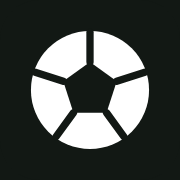
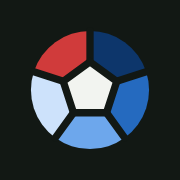
Novo ícone: bola com os gomos nas cores da tabela
Claude-Session: https://claude.ai/code/session_01JAEvz8dyJ8ZTXmCSp9M3N2

Changed region(s): [[0.1667, 0.1667, 0.8333, 0.8333]]

diff --git a/index.html b/index.html
@@ -296,7 +296,7 @@ footer .credit { font-size: 14px; font-weight: 600; color: var(--ink-2); }
 /* brand: the 20-position strip (G4 blues to Z4 reds) is the Simulafut signature */
 .brandbar { display: grid; gap: 12px; margin-bottom: -16px; }
 .brand { display: flex; align-items: center; gap: 10px; color: var(--ink); }
-.bmark { width: 20px; height: 20px; flex: none; }
+.bmark { width: 22px; height: 22px; flex: none; }
 .wordmark { font-family: var(--font-display); font-weight: 800; font-size: 17px; letter-spacing: .06em; text-transform: uppercase; line-height: 1; }
 .bstrip { display: grid; grid-template-columns: repeat(20, minmax(0, 1fr)); gap: 3px; }
 .bstrip i { display: block; height: 5px; border-radius: 2px; }
@@ -457,7 +457,7 @@ footer .credit { font-size: 14px; font-weight: 600; color: var(--ink-2); }
 <body>
 <main class="page" id="page">
   <div class="brandbar">
-    <div class="brand"><svg class="bmark" viewBox="0 0 64 64" aria-hidden="true"><rect width="64" height="64" rx="14" fill="currentColor"/><circle cx="32" cy="32" r="21" fill="var(--bg)"/><polygon points="32,22 41.51,28.91 37.88,40.09 26.12,40.09 22.49,28.91" fill="currentColor"/><g stroke="currentColor" stroke-width="2.6" stroke-linecap="round"><line x1="32" y1="22" x2="32" y2="11.5"/><line x1="41.51" y1="28.91" x2="51.5" y2="25.66"/><line x1="37.88" y1="40.09" x2="44.05" y2="48.58"/><line x1="26.12" y1="40.09" x2="19.95" y2="48.58"/><line x1="22.49" y1="28.91" x2="12.5" y2="25.66"/></g></svg><span class="wordmark">Simulafut</span></div>
+    <div class="brand"><svg class="bmark" viewBox="10 10 44 44" aria-hidden="true"><path d="M32.00,22.00 L32.00,11.00 A21,21 0 0 1 51.97,25.51 L41.51,28.91 Z" fill="#0d366b"/><path d="M41.51,28.91 L51.97,25.51 A21,21 0 0 1 44.34,48.99 L37.88,40.09 Z" fill="#256abf"/><path d="M37.88,40.09 L44.34,48.99 A21,21 0 0 1 19.66,48.99 L26.12,40.09 Z" fill="#6da7ec"/><path d="M26.12,40.09 L19.66,48.99 A21,21 0 0 1 12.03,25.51 L22.49,28.91 Z" fill="#cde2fb"/><path d="M22.49,28.91 L12.03,25.51 A21,21 0 0 1 32.00,11.00 L32.00,22.00 Z" fill="#d03b3b"/><path d="M32.00,22.00 L41.51,28.91 L37.88,40.09 L26.12,40.09 L22.49,28.91 Z" fill="var(--ink)"/><g stroke="var(--bg)" stroke-width="2.6" stroke-linecap="round" fill="none"><line x1="32.00" y1="22.00" x2="32.00" y2="11.00"/><line x1="41.51" y1="28.91" x2="51.97" y2="25.51"/><line x1="37.88" y1="40.09" x2="44.34" y2="48.99"/><line x1="26.12" y1="40.09" x2="19.66" y2="48.99"/><line x1="22.49" y1="28.91" x2="12.03" y2="25.51"/><path d="M32.00,22.00 L41.51,28.91 L37.88,40.09 L26.12,40.09 L22.49,28.91 Z"/></g></svg><span class="wordmark">Simulafut</span></div>
     <div class="bstrip" aria-hidden="true"><i style="background:#0d366b"></i><i style="background:#0d366b"></i><i style="background:#0d366b"></i><i style="background:#184f95"></i><i style="background:#184f95"></i><i style="background:#256abf"></i><i style="background:#256abf"></i><i style="background:#256abf"></i><i style="background:#3987e5"></i><i style="background:#3987e5"></i><i style="background:#6da7ec"></i><i style="background:#6da7ec"></i><i style="background:#9ec5f4"></i><i style="background:#9ec5f4"></i><i style="background:#cde2fb"></i><i style="background:#cde2fb"></i><i style="background:#d03b3b;opacity:.35"></i><i style="background:#d03b3b;opacity:.57"></i><i style="background:#d03b3b;opacity:.78"></i><i style="background:#d03b3b"></i></div>
   </div>
   <header class="top">
